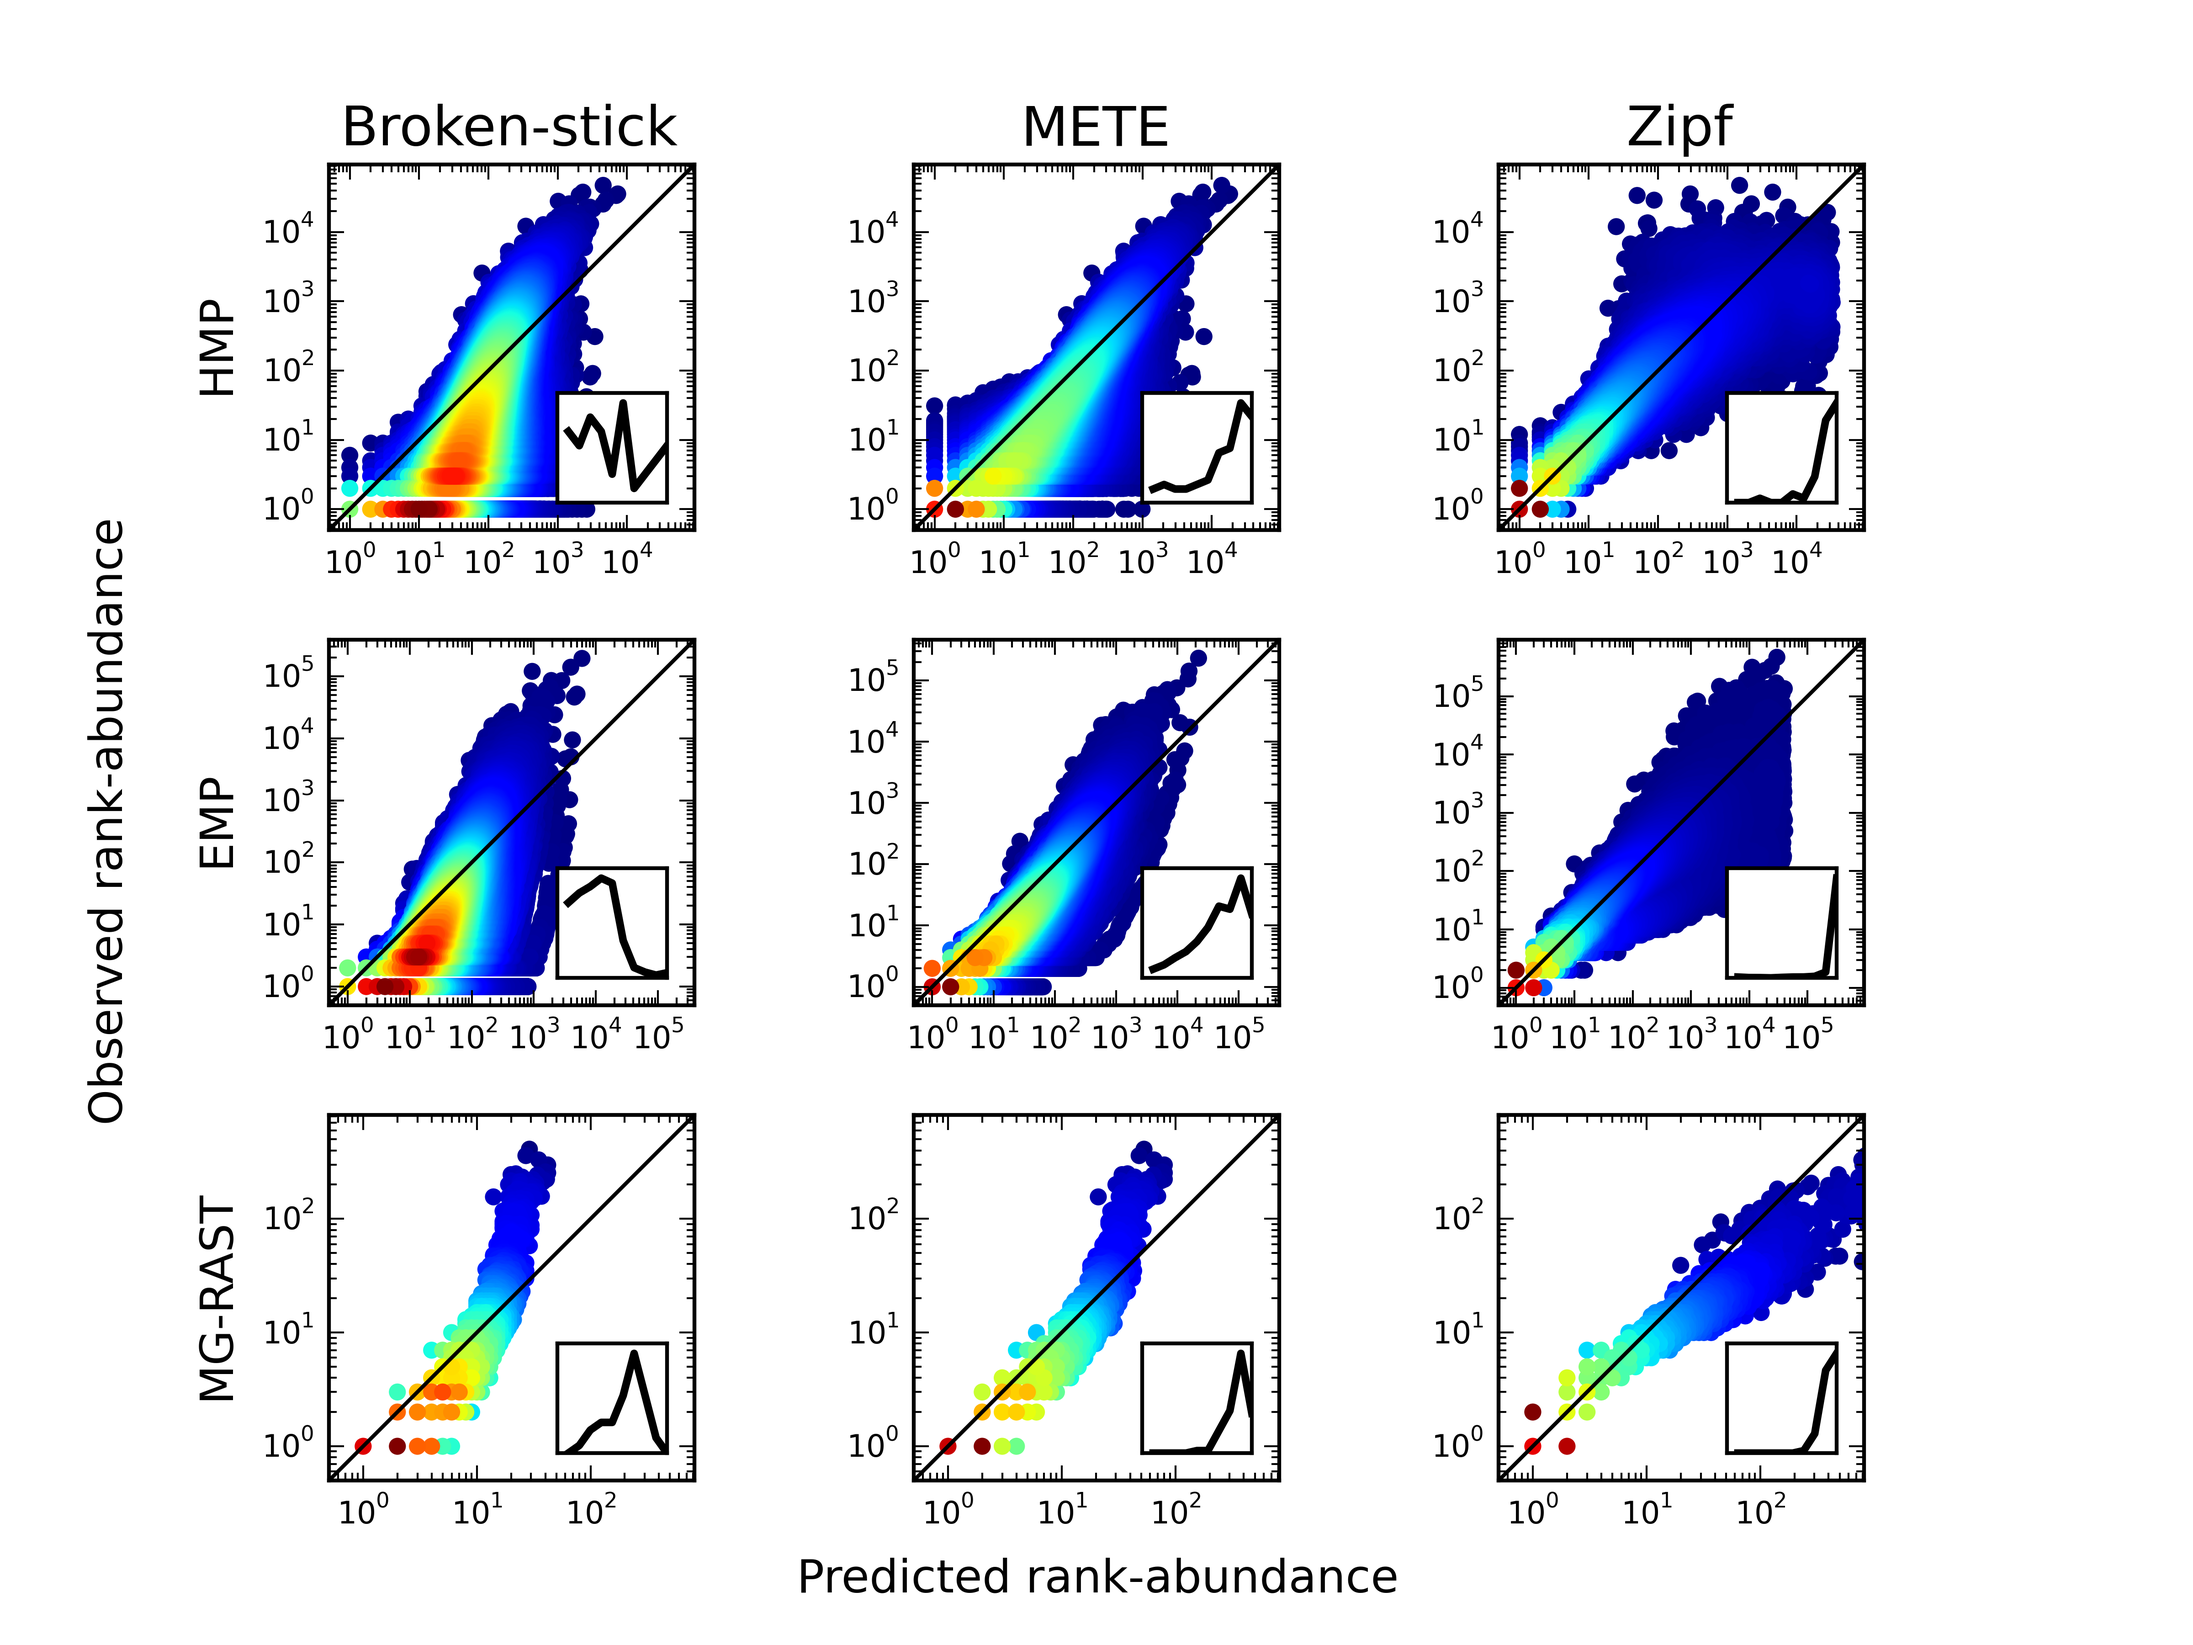
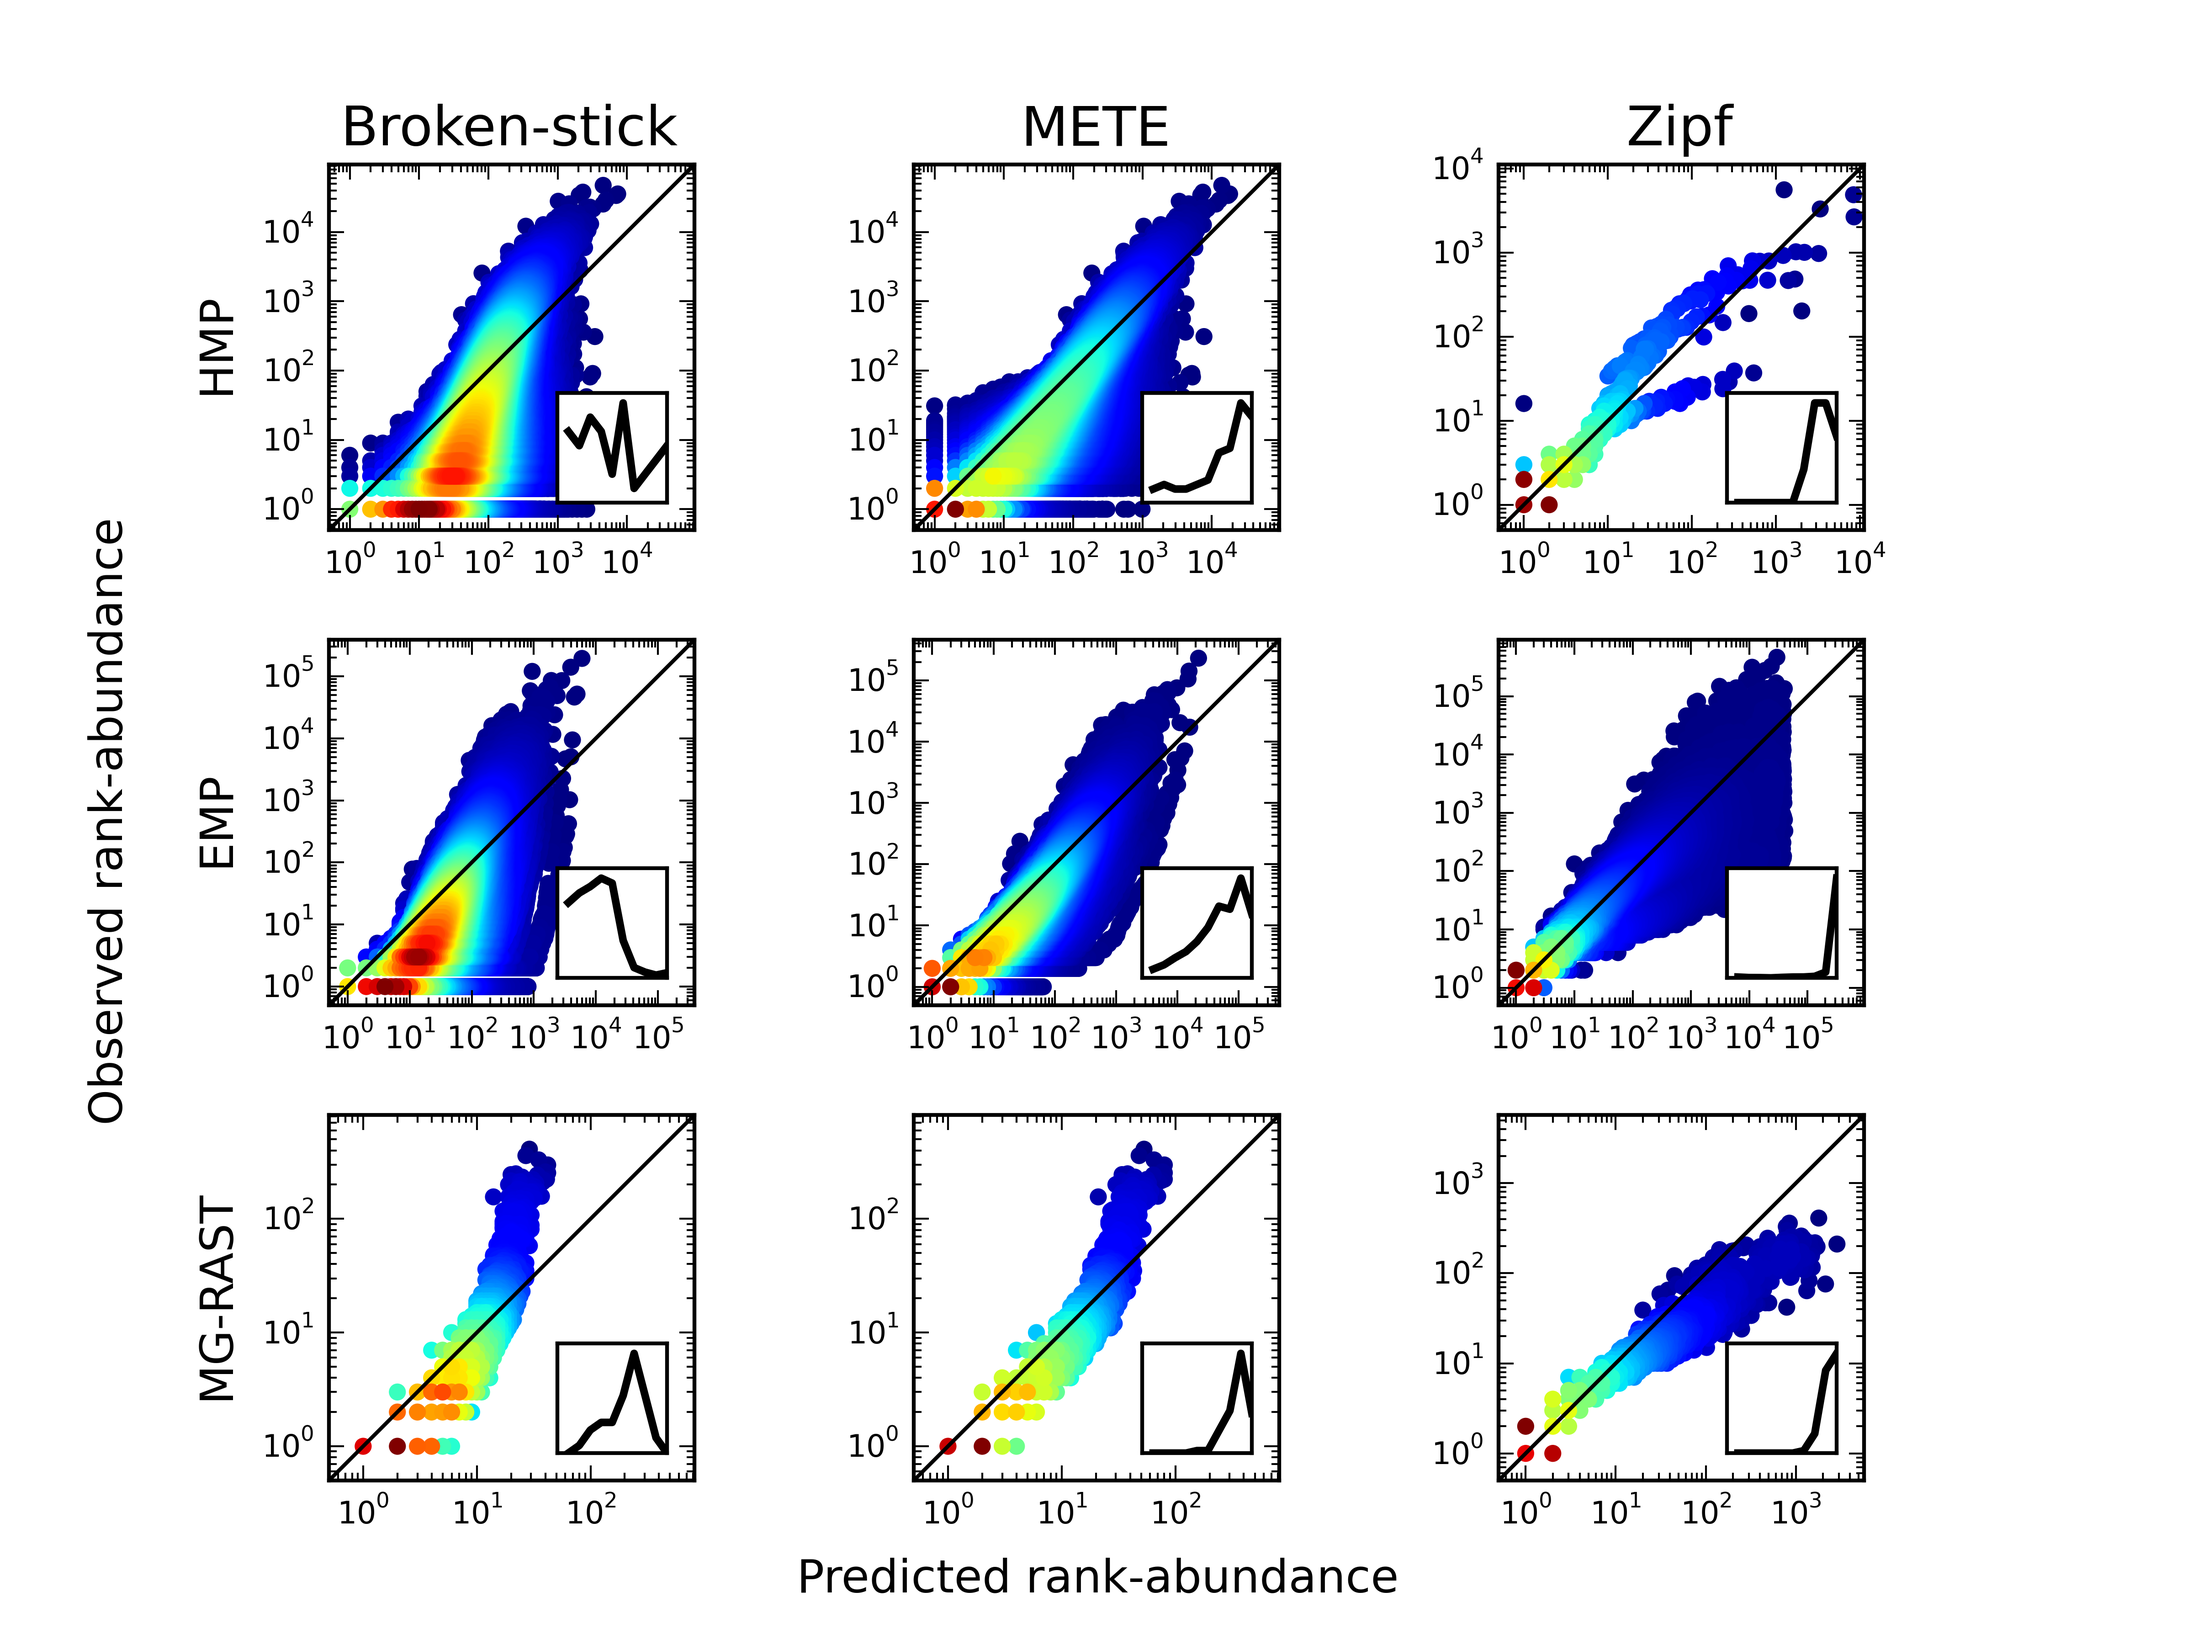
New figure 1, fized axes

diff --git a/Python/generate_figs_zipf.py b/Python/generate_figs_zipf.py
@@ -477,8 +477,12 @@ def plot_obs_pred_sad(methods, datasets, data_dir= mydir, radius=2): # TAKEN FRO
             site = ((obs_pred_data["site"]))
             obs = ((obs_pred_data["obs"]))
             pred = ((obs_pred_data["pred"]))
-            axis_min = 0.5 * min(obs)
-            axis_max = 2 * max(obs)
+            if (dataset == '97' or dataset == '95' or dataset == '99') and method == 'zipf':
+                axis_min = 0.5 * min(obs)
+                axis_max = 2  * max(pred)
+            else:
+                axis_min = 0.5 * min(obs)
+                axis_max = 2 * max(obs)
             ax = fig.add_subplot(plot_dim, plot_dim, count+1)
             ax.set(adjustable='box-forced', aspect='equal')
 
@@ -676,10 +680,10 @@ def NSR2_regression(methods, datasets, data_dir= mydir):
 methods = ['geom', 'mete','zipf']
 #methods = ['zipf']
 #datasets = ['HMP', 'EMPclosed','EMPopen','97']
-#datasets = ['HMP', 'EMPclosed', '97']
+datasets = ['HMP', 'EMPclosed', '97']
 #datasets = ['95', '97','99']
 #datasets = ['EMPopen']
-datasets = ['MGRAST99']
+#datasets = ['MGRAST99']
 
 params = ['N','S', 'N/S']
 #params = ['N/S']
@@ -687,7 +691,7 @@ params = ['N','S', 'N/S']
 #generate_obs_pred_data(datasets, methods, 0)
 #empclosed = ['EMPclosed']
 #generate_obs_pred_data(datasets, methods, 0)
-#plot_obs_pred_sad(methods, datasets)
-NSR2_regression(methods, datasets, data_dir= mydir)
+plot_obs_pred_sad(methods, datasets)
+#NSR2_regression(methods, datasets, data_dir= mydir)
 
 #get_SADs_mgrast(mydir, '99')
